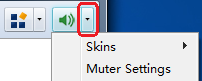
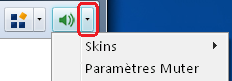
fix French and English translation encoding problem. Thanks to Jim Courbron.

diff --git a/MuterWin7/AudioVolume.cpp b/MuterWin7/AudioVolume.cpp
@@ -30,7 +30,7 @@ AudioVolume::~AudioVolume(void)
 // ----------------------------------------------------------------------
 HRESULT AudioVolume::Initialize()
 {
-  TRACE("AudioVolume::Initialize Enters\n");
+	TRACE("AudioVolume::Initialize Enters\n");
 	HRESULT hr;
 
 	// create enumerator
@@ -55,7 +55,7 @@ HRESULT AudioVolume::Initialize()
 // ----------------------------------------------------------------------
 void AudioVolume::Dispose()
 {
-  TRACE("AudioVolume::Dispose Enters\n");
+	TRACE("AudioVolume::Dispose Enters\n");
 	DetachFromEndpoint();
 
 	if (m_bRegisteredForEndpointNotifications)
@@ -74,7 +74,7 @@ void AudioVolume::Dispose()
 // ----------------------------------------------------------------------
 HRESULT AudioVolume::AttachToDefaultEndpoint()
 {
-  TRACE("AudioVolume::AttachToDefaultEndpoint Enters\n");
+	TRACE("AudioVolume::AttachToDefaultEndpoint Enters\n");
 	m_csEndpoint.Enter();
 
 	// get the default music & movies playback device
@@ -93,7 +93,7 @@ HRESULT AudioVolume::AttachToDefaultEndpoint()
 
 	m_csEndpoint.Leave();
 
-  TRACE("AudioVolume::AttachToDefaultEndpoint Leaves\n");
+	TRACE("AudioVolume::AttachToDefaultEndpoint Leaves\n");
 	return hr;
 }
 
@@ -103,7 +103,7 @@ HRESULT AudioVolume::AttachToDefaultEndpoint()
 // ----------------------------------------------------------------------
 void AudioVolume::DetachFromEndpoint()
 {
-  TRACE("AudioVolume::DetachFromEndpoint Enters\n");
+	TRACE("AudioVolume::DetachFromEndpoint Enters\n");
 
 	m_csEndpoint.Enter();
 
@@ -123,15 +123,15 @@ void AudioVolume::DetachFromEndpoint()
 
 	m_csEndpoint.Leave();
 
-  TRACE("AudioVolume::DetachFromEndpoint Leaves\n");
+	TRACE("AudioVolume::DetachFromEndpoint Leaves\n");
 }
 
 void AudioVolume::UpdateAudioSessionControlList()
 {
 	HRESULT hr = S_OK;
 
-  if (m_spAudioSessionManager2 == NULL)
-    return;
+	if (m_spAudioSessionManager2 == NULL)
+		return;
 
 	CComQIPtr<IAudioSessionEnumerator> spAudioSessionEnumerator;
 	try
@@ -178,7 +178,6 @@ void AudioVolume::UpdateAudioSessionControlList()
 				}
 
 				AddSessionIfNew(map, spAudioSessionControl);
-				SAFE_RELEASE(spAudioSessionControl);
 			}
 			catch (LPCSTR szError)
 			{
@@ -229,7 +228,10 @@ void AudioVolume::AddSessionIfNew(const std::map<DWORD, BOOL> &map, CComQIPtr<IA
 				m_mapSpAudioSessionControl2[CStringW(pswInstanceId)] = spAudioSessionControl2;
 
 				CComQIPtr<ISimpleAudioVolume> spSimpleAudioVolume = spAudioSessionControl2;
-				spSimpleAudioVolume->SetMute(::IsMuteEnabled(), &AudioVolumnCtx);
+				if (spSimpleAudioVolume != NULL)
+				{
+					spSimpleAudioVolume->SetMute(::IsMuteEnabled(), &AudioVolumnCtx);
+				}
 				SAFE_RELEASE(spSimpleAudioVolume);
 			}
 			CoTaskMemFree(pswInstanceId);
@@ -241,8 +243,8 @@ void AudioVolume::AddSessionIfNew(const std::map<DWORD, BOOL> &map, CComQIPtr<IA
 	{
 		TRACE("[MuterWin7] AudioVolume::AddSessionIfNew: %s\n", szError);
 	}
-	SAFE_RELEASE(spAudioSessionControl);
 	SAFE_RELEASE(spAudioSessionControl2);
+	SAFE_RELEASE(spAudioSessionControl);
 }
 
 void AudioVolume::DisposeAudioSessionControlList()
@@ -283,33 +285,37 @@ HRESULT AudioVolume::OnSessionCreated(IAudioSessionControl *NewSession)
 	m_csEndpoint.Enter();
 
 	CComQIPtr<IAudioSessionControl> spIAudioSessionControl = NewSession;
-
-	try
+	if (spIAudioSessionControl != NULL)
 	{
-		// Map indicating whether a process belongs to firefox
-		std::map<DWORD, BOOL> map;
-		if (!GetSubProcesseMap(g_dwThisModuleProcessId, map))
+		try
 		{
-			throw "AudioVolume::GetSubProcesseMap failed!";
-		}
-		std::map<DWORD, BOOL>::iterator iter = map.find(g_dwThisModuleProcessId);
-		if (iter != map.end())
-		{
-			iter->second = TRUE;
-		}
+			// Map indicating whether a process belongs to firefox
+			std::map<DWORD, BOOL> map;
+			if (!GetSubProcesseMap(g_dwThisModuleProcessId, map))
+			{
+				throw "AudioVolume::GetSubProcesseMap failed!";
+			}
+			std::map<DWORD, BOOL>::iterator iter = map.find(g_dwThisModuleProcessId);
+			if (iter != map.end())
+			{
+				iter->second = TRUE;
+			}
 
-		AddSessionIfNew(map, spIAudioSessionControl);
-	}
-	catch (LPCSTR szError)
-	{
-		TRACE("[MuterWin7] AudioVolume::OnSessionCreated: %s\n", szError);
+			AddSessionIfNew(map, spIAudioSessionControl);
+		}
+		catch (LPCSTR szError)
+		{
+			TRACE("[MuterWin7] AudioVolume::OnSessionCreated: %s\n", szError);
+		}
 	}
 
 	SAFE_RELEASE(spIAudioSessionControl);
 
+	UpdateAudioSessionControlList();
+
 	m_csEndpoint.Leave();
 
-  TRACE("AudioVolume::OnSessionCreated Leaves\n");
+	TRACE("AudioVolume::OnSessionCreated Leaves\n");
 	return S_OK;
 }
 
@@ -319,7 +325,7 @@ HRESULT AudioVolume::OnSessionCreated(IAudioSessionControl *NewSession)
 HRESULT AudioVolume::QueryInterface(REFIID iid, void** ppUnk)
 {
 	if ((iid == __uuidof(IUnknown)) ||
-		(iid == __uuidof(IAudioSessionNotification)))
+		(iid == __uuidof(IMMNotificationClient)))
 	{
 		*ppUnk = static_cast<IMMNotificationClient*>(this);
 	}
@@ -363,7 +369,7 @@ BOOL AudioVolume::GetSubProcesseMap(DWORD dwParentProcessId, std::map<DWORD, BOO
 
 	PROCESSENTRY32 procentry  = { sizeof(PROCESSENTRY32) };
 	BOOL bContinue = Process32First(hSnapShot, &procentry);
-	while( bContinue )
+	while(bContinue)
 	{
 		DWORD dwProcessId = procentry.th32ProcessID;
 		BOOL bIsSubProcess = dwParentProcessId == procentry.th32ParentProcessID;
